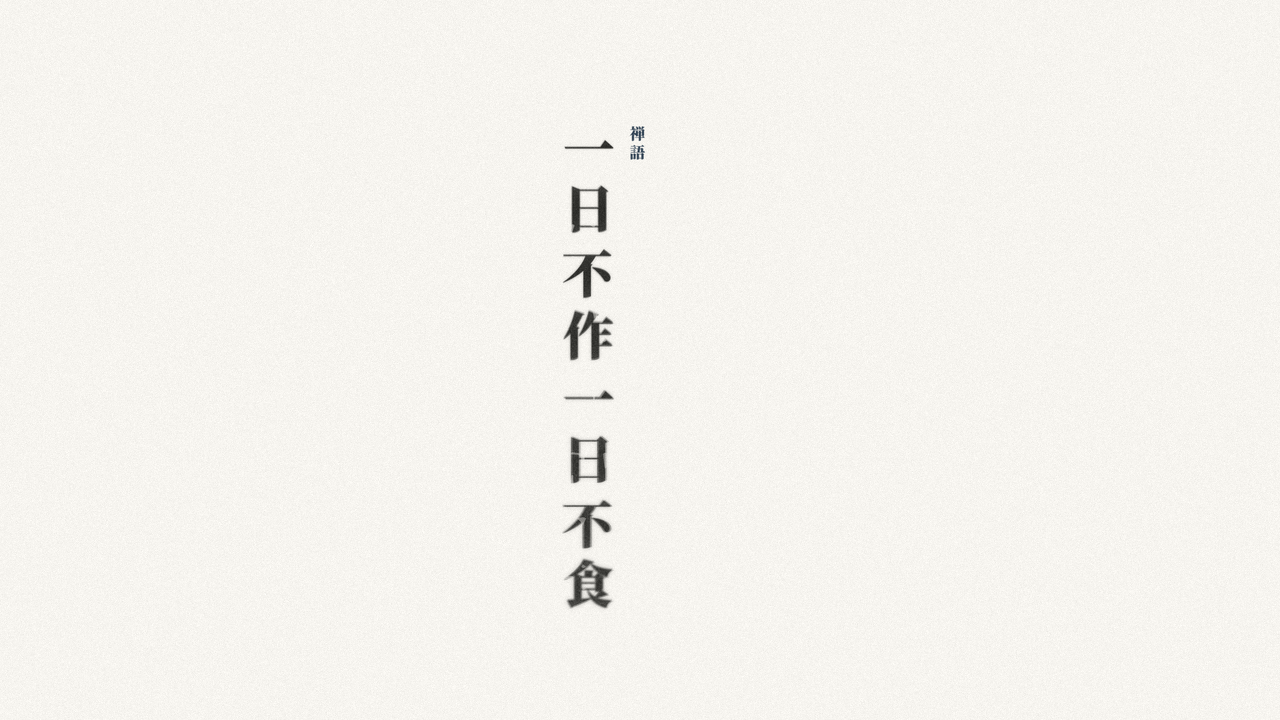
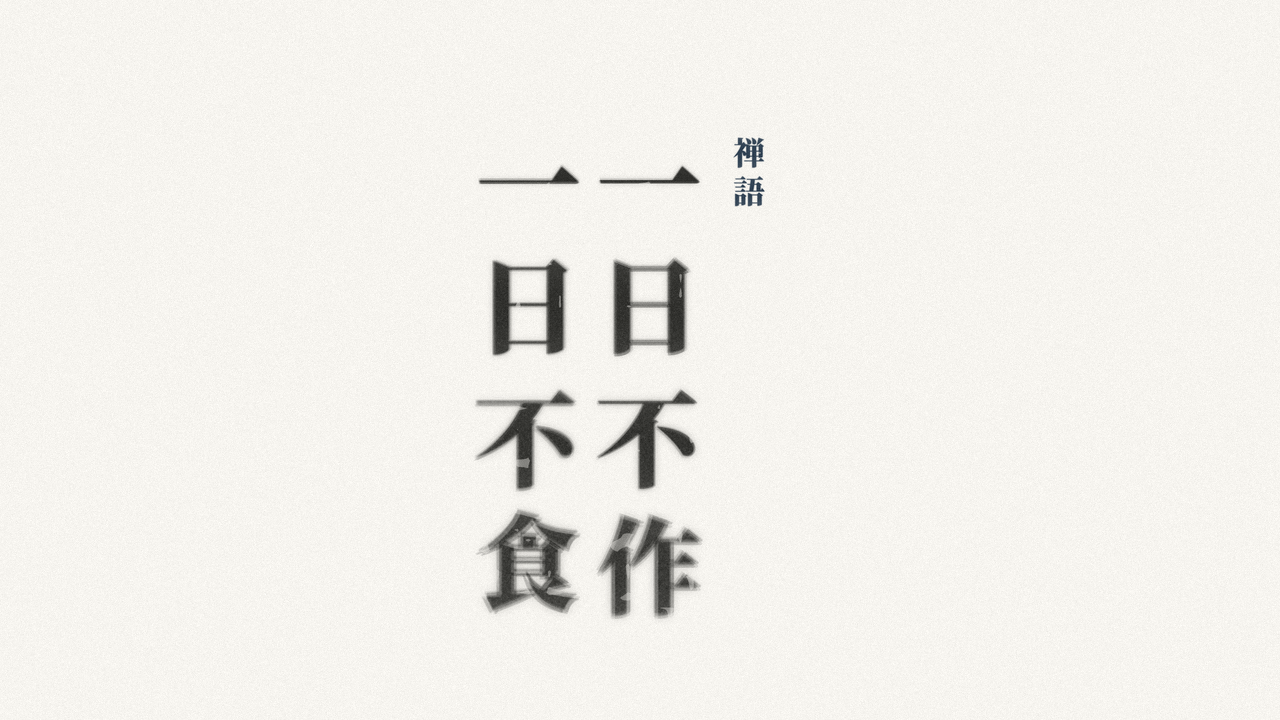
カバー生成: 長いタイトルを縦2列に割る機能を追加、fusakuに適用
「一日不作一日不食」は8字で1列だと字が小さくなりすぎていた。
make_cover に columns 引数(右から読む順の列リスト)を追加し、
読点の位置「一日不作」「一日不食」で縦2列に分割できるようにした。
表記は削らず正式名のまま、字は大きく読みやすくなる。

JOBS の呼び出し側に COLUMN_SPLITS マップを追加し、fusaku のみ
2列指定で再生成。他の記事の呼び出しは columns=None のままなので
挙動は従来どおり(1列)。

Changed region(s): [[0.375, 0.55, 0.5625, 0.8556], [0.375, 0.1833, 0.5938, 0.5194]]

diff --git a/tools/build_covers.py b/tools/build_covers.py
@@ -202,12 +202,16 @@ def draw_dharma_wheel(canvas, center, radius, color, seed=1, alpha=42, spokes=8)
     canvas.alpha_composite(layer)
 
 
-def make_cover(title_chars, label_chars, out_path, seed=42, accent_color=None, bg_color=None, motif=None):
+def make_cover(title_chars, label_chars, out_path, seed=42, accent_color=None, bg_color=None, motif=None, columns=None):
+    """columns: 長いタイトルを縦2列以上に割りたい場合、右から読む順の文字列リストを渡す
+    (例: ["一日不作", "一日不食"])。省略時は title_chars をそのまま1列で表示する(従来どおり)。
+    正式名は削らない方針のため、字数が多いときは1列の字サイズを下げるより2列に割るほうを優先する。"""
     accent = accent_color or ACCENT_COLOR
     bg = bg_color or BG_COLOR
     canvas = Image.new("RGBA", (SS_W, SS_H), bg + (255,))
 
-    n = len(title_chars)
+    cols = columns if columns else [title_chars]
+    n = max(len(c) for c in cols)  # 列ごとの字数の最大値で字サイズを決める
     margin_ratio = 0.16
     usable_h = SS_H * (1 - margin_ratio * 2)
     gap_ratio = 0.22
@@ -221,14 +225,21 @@ def make_cover(title_chars, label_chars, out_path, seed=42, accent_color=None, b
     if motif == "dharma_wheel":
         draw_dharma_wheel(canvas, (center_x, SS_H / 2), radius=SS_H * 0.30, color=accent, seed=seed)
 
-    paste_vertical_column(canvas, title_chars, center_x, top_y, char_size, gap_ratio, INK_COLOR, seed, wear_curve=True)
+    # 縦書きは右から左へ列を進める。1列目(cols[0])がいちばん右。
+    n_cols = len(cols)
+    col_step = char_size * 1.15  # 列間の間隔
+    rightmost_x = center_x + col_step * (n_cols - 1) / 2
+    for ci, col_text in enumerate(cols):
+        col_center_x = rightmost_x - col_step * ci
+        col_top_y = top_y + (n - len(col_text)) * (char_size * (1 + gap_ratio)) / 2  # 字数が少ない列は中央揃え
+        paste_vertical_column(canvas, col_text, col_center_x, col_top_y, char_size, gap_ratio, INK_COLOR, seed + ci * 50, wear_curve=True)
 
     # ラベル(小・アクセントカラー・タイトルの右上)。シリーズごとに label_chars / accent_color を切り替え可能
     label_size = char_size * 0.30
     label_gap = 0.30
     label_total_h = label_size * len(label_chars) + label_size * label_gap * (len(label_chars) - 1)
     label_top = top_y + char_size * 0.15
-    label_center_x = center_x + char_size * 0.95
+    label_center_x = rightmost_x + char_size * 0.95
     paste_vertical_column(canvas, label_chars, label_center_x, label_top, label_size, label_gap, accent, seed + 100)
 
     # ダウンサンプル
@@ -283,6 +294,12 @@ JOBS = [
     ("fusaku", "一日不作一日不食", "禅語"),
 ]
 
+# 8字等、1列では字が小さくなりすぎる/字間が間延びして見えるタイトルは、
+# 意味の切れ目(読点の位置等)で縦2列に割る。表記は削らない(正式名のまま)。
+COLUMN_SPLITS = {
+    "fusaku": ["一日不作", "一日不食"],  # 「一日不作、一日不食」の読点で分割。右列が先に読む側
+}
+
 # 仏教語シリーズ専用。禅宗に限らない仏教の言葉（天台宗・浄土宗 等）。
 # 禅語シリーズと混同しないよう、背景色・アクセントカラー・ラベル文言に加えて
 # 禅語シリーズには存在しない「法輪」の背景モチーフを入れる。
@@ -302,7 +319,7 @@ if __name__ == "__main__":
     for i, (slug, title, label) in enumerate(JOBS):
         if only and slug not in only:
             continue
-        make_cover(title, label, os.path.join(out_dir, f"{slug}.png"), seed=42 + i * 17)
+        make_cover(title, label, os.path.join(out_dir, f"{slug}.png"), seed=42 + i * 17, columns=COLUMN_SPLITS.get(slug))
     for i, (slug, title, label) in enumerate(JOBS_BUDDHIST):
         if only and slug not in only:
             continue
